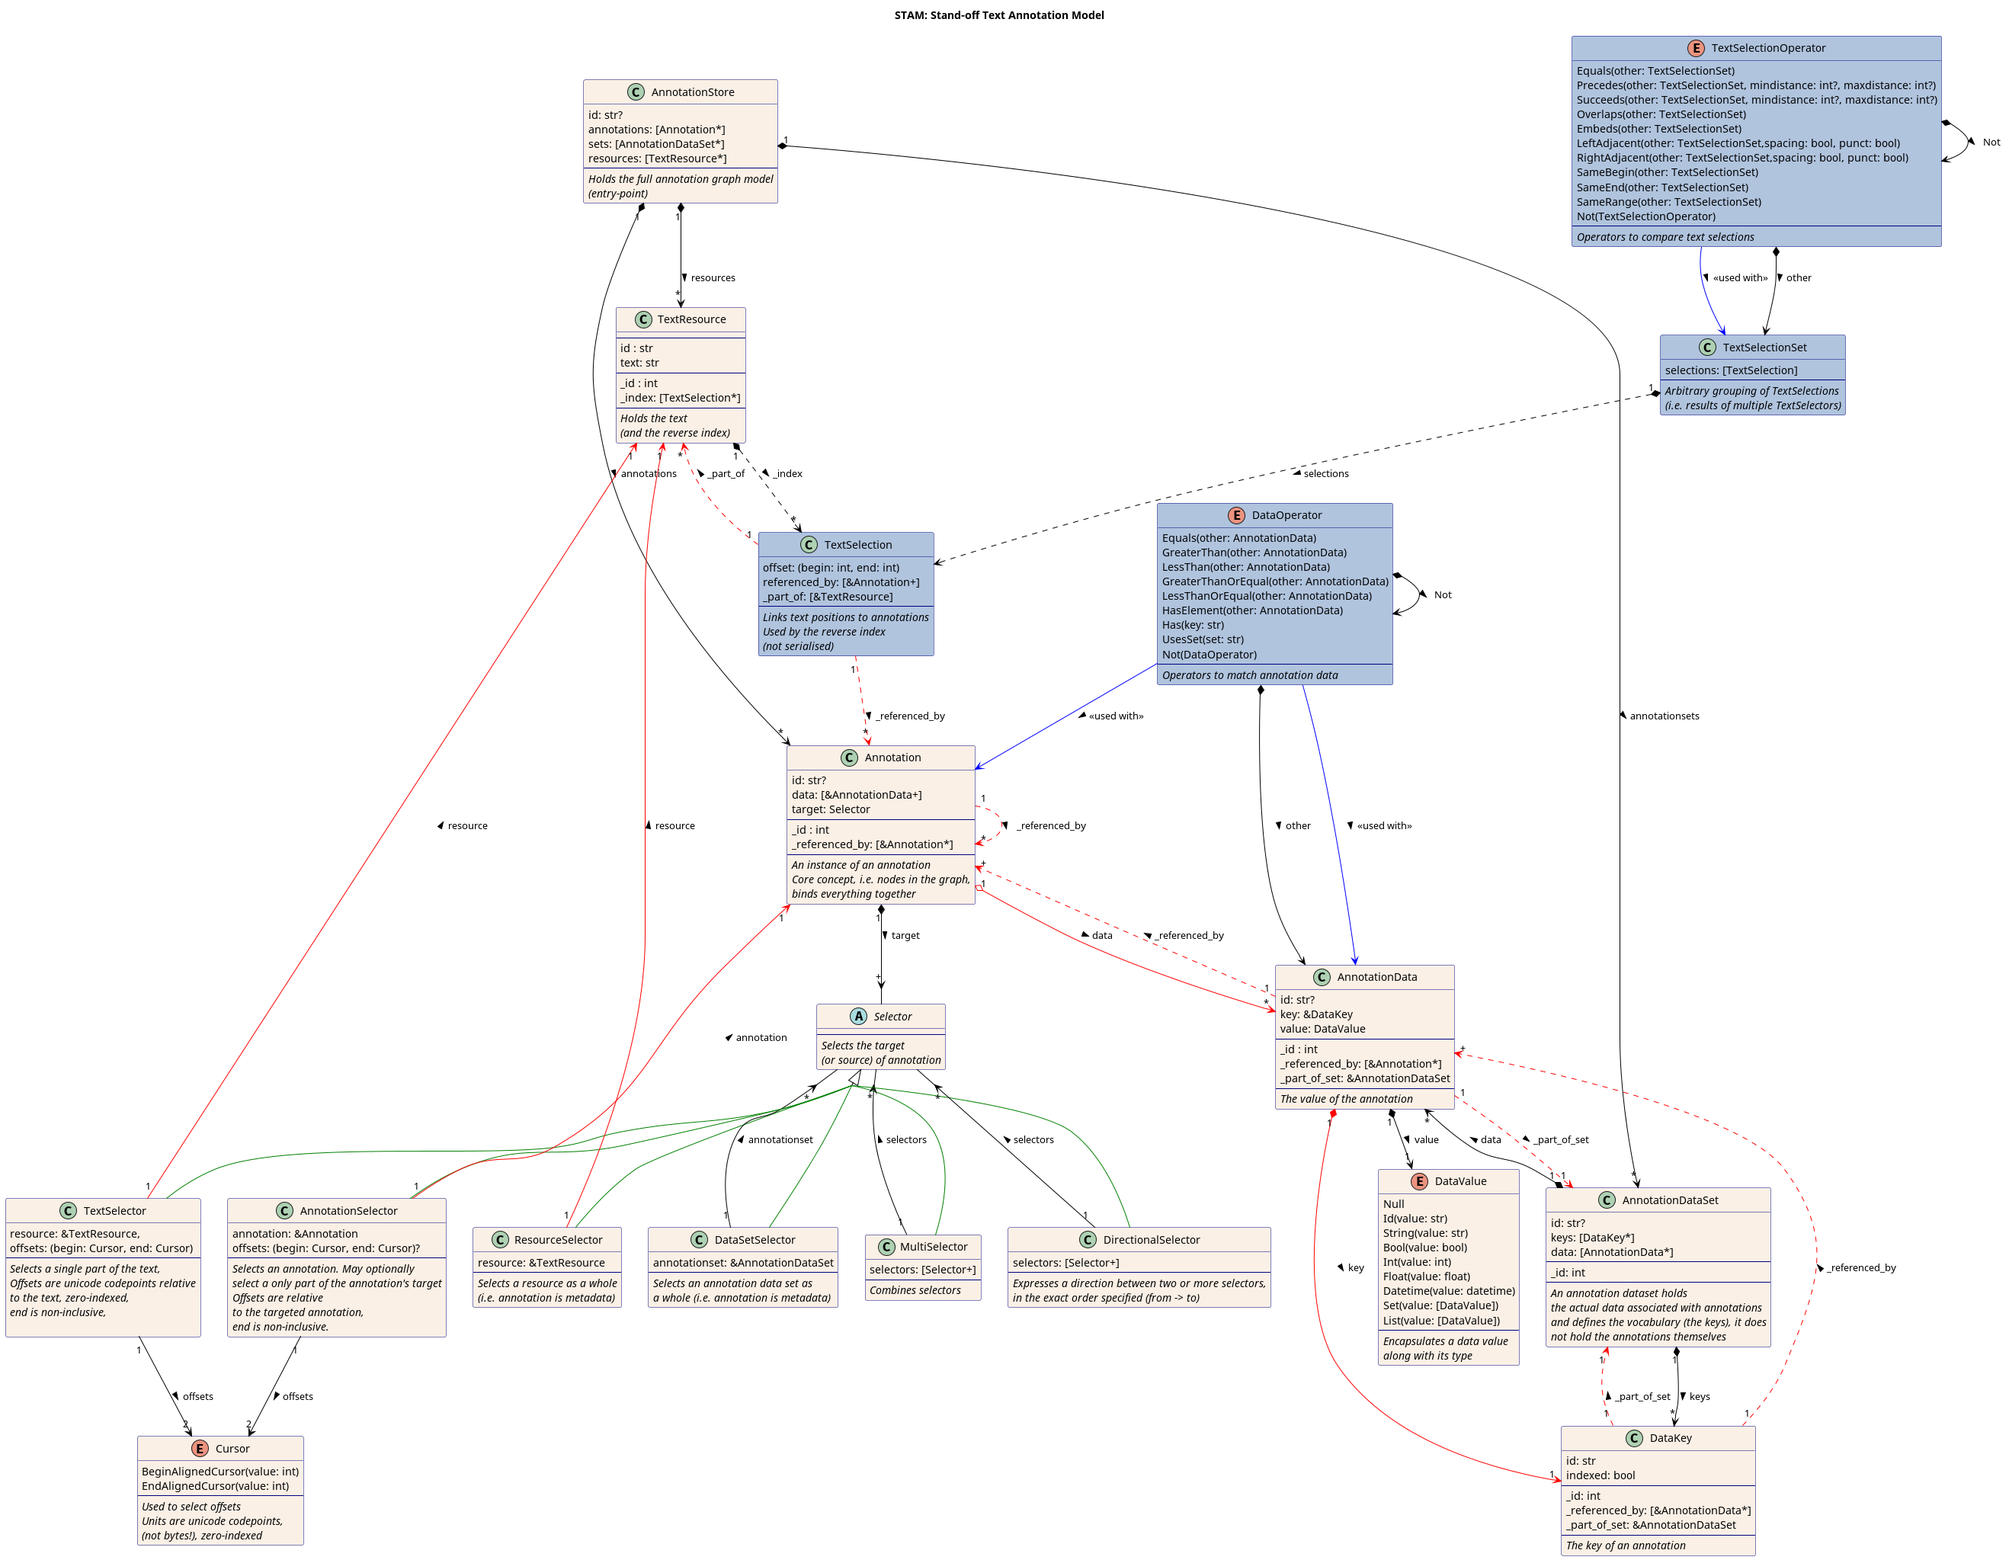
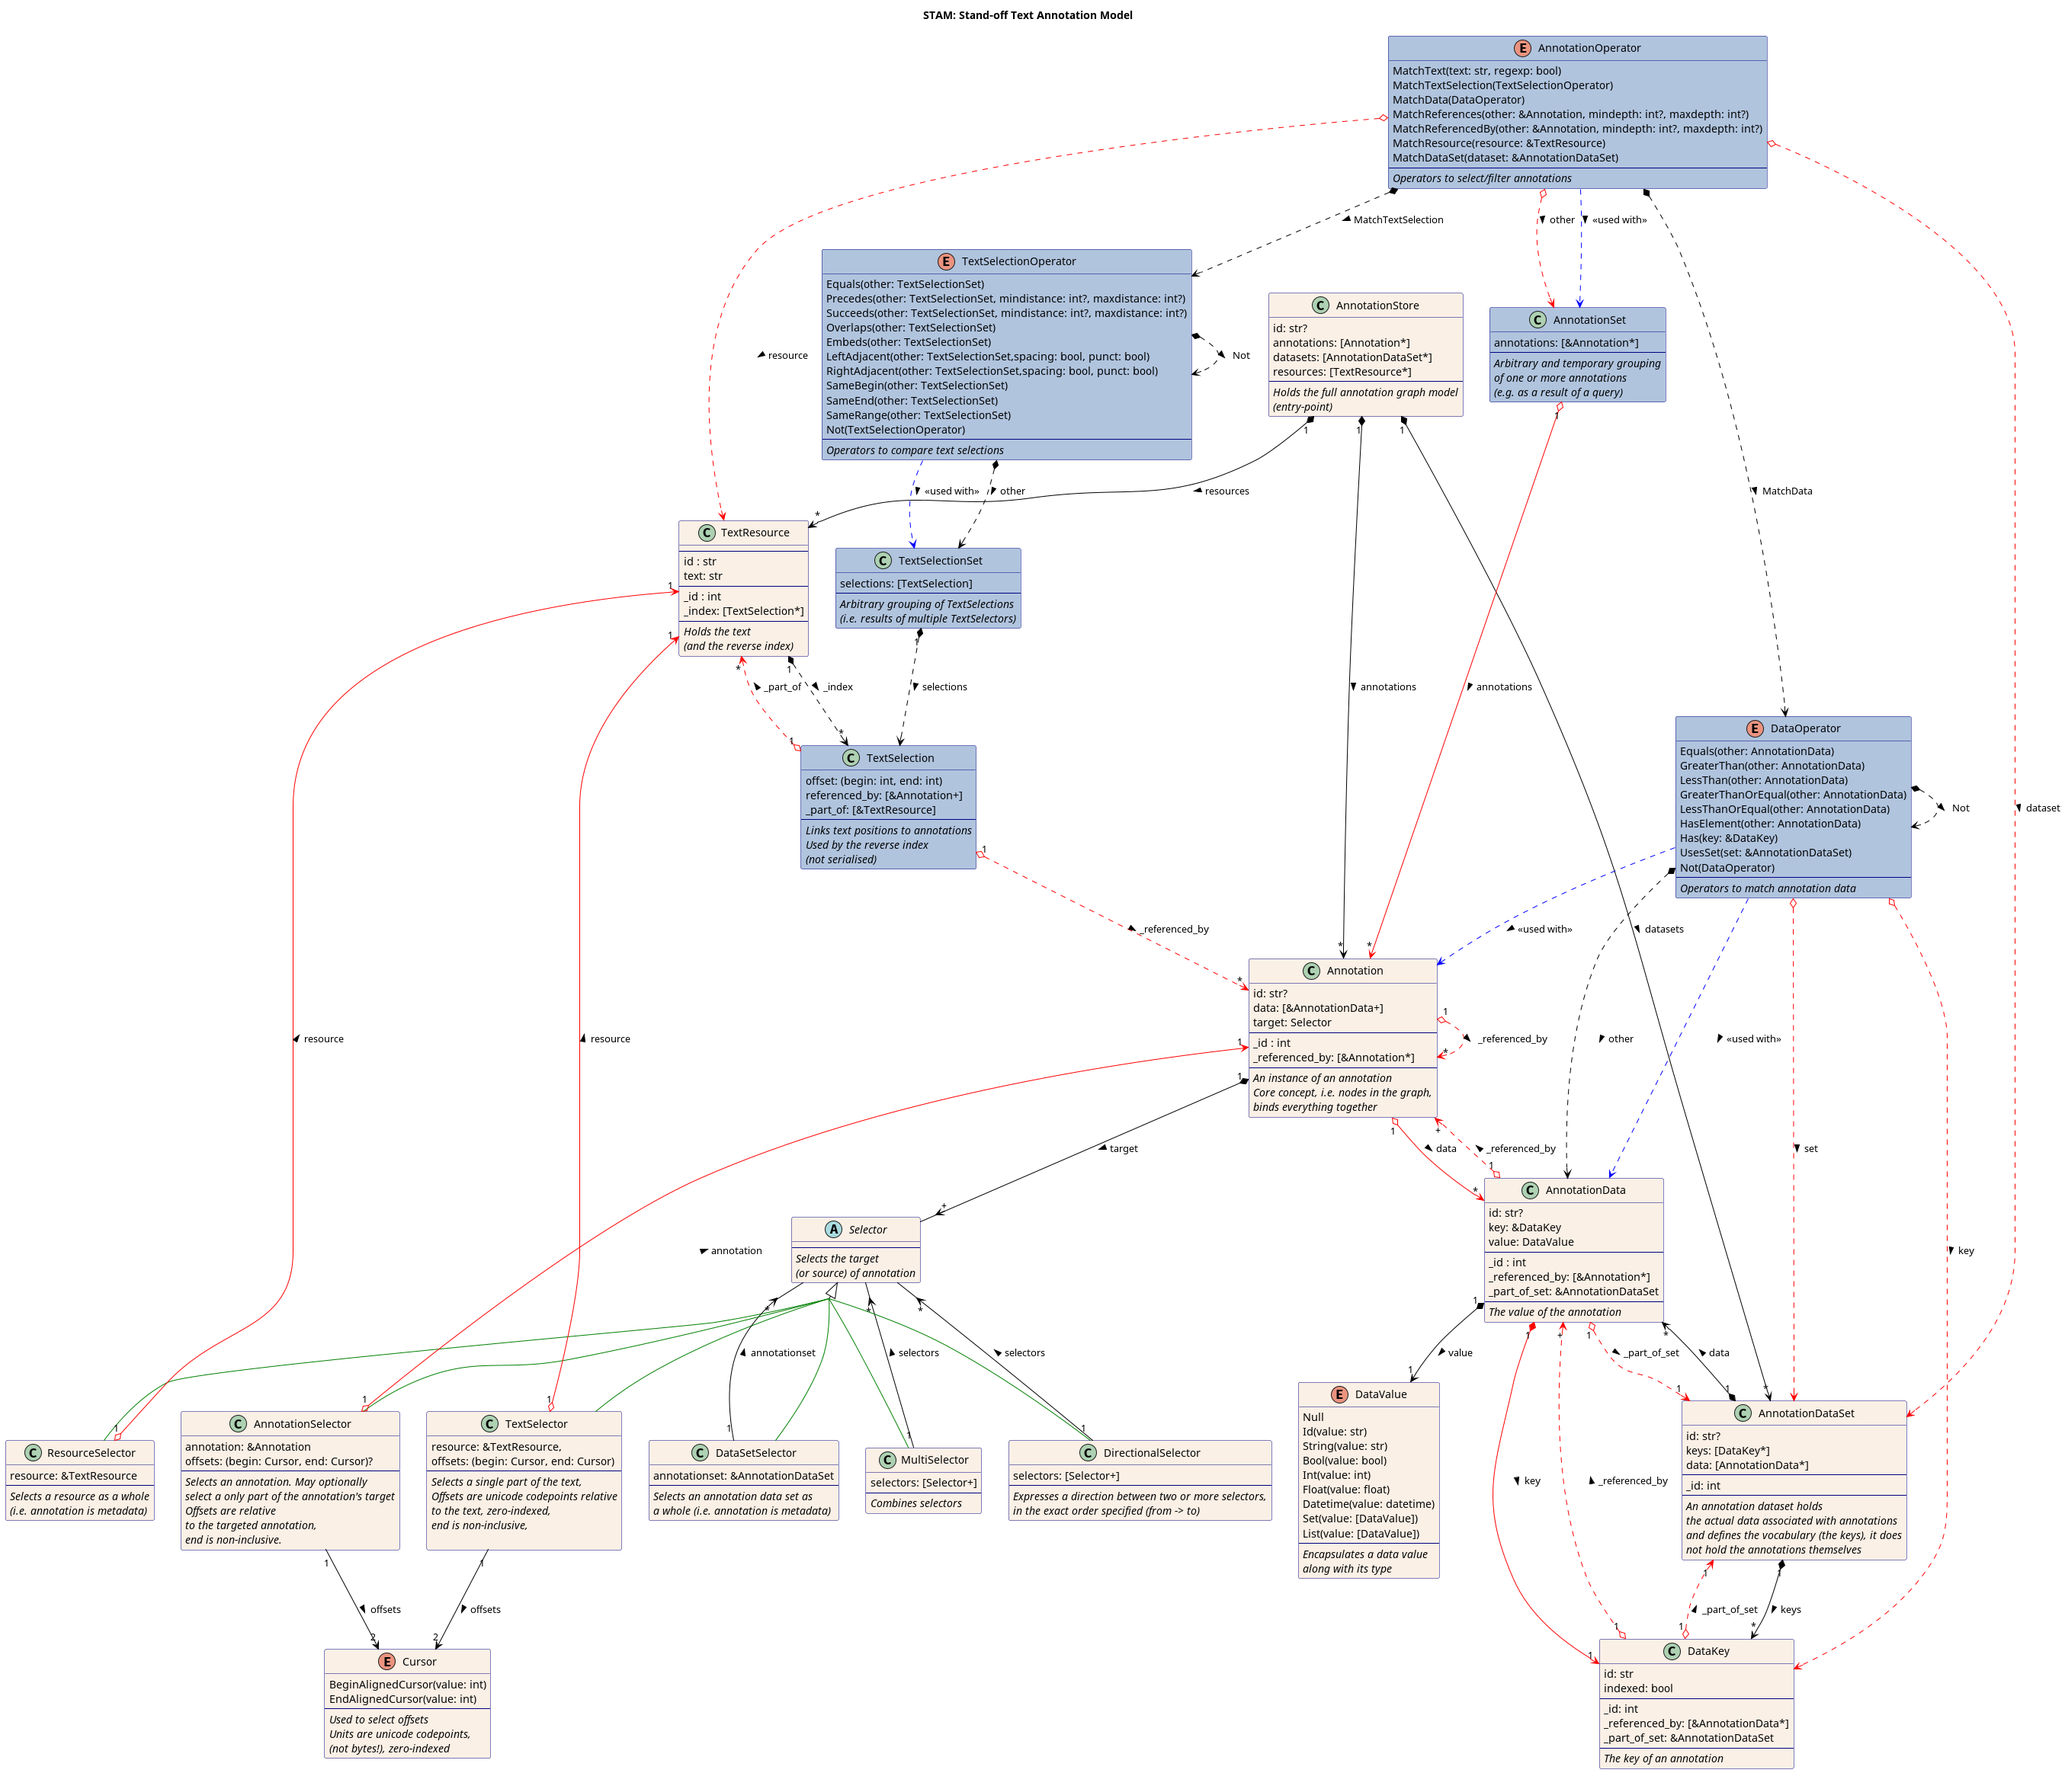
added AnnotationOperator to UML schema, fixed various relations, and updated clarifications

diff --git a/README.md b/README.md
@@ -114,23 +114,23 @@ The below UML diagram expresses the full data model.
 
 ![UML diagram](model.png)
 
-Some notes to interpret the diagram:
+Some notes to interpret the diagram, as it may quickly become overwhelming:
 
 *  A circled C stands for a Class (items listed are properties that must all be satisfied).
 *  A circled A stands for a Abstract class (items listed are properties that must all be satisfied).
 *  A circled E stands for an Enumeration (items listed are options in the enumeration)
-   *  Enumerations may be parametrised (this could be expanded to an abstract class and concrete classes).
-* Blue classes/enumerations are part of the extended model, and provide *RECOMMENDATIONS* for implementations in order to provide certain functionality.
-* Dashed edges follow private properties for the recommended memory-model
+   *  Enumerations may be parametrised (this could be written more verbosely as an abstract class (A) and concrete classes (C), and vice versa).
+* Blue classes/enumerations are *dependency relations* part of the extended model, and provide *RECOMMENDATIONS* for implementations in order to provide certain functionality. Please ignore it on a first reading.
+* Dashed edges follow private/*RECOMMENDED* properties for the recommended memory-model or come from classes in the extended model. Please ignore it on a first reading.
 * Green edges denote a subclass relationship (for the various Selectors)
-* Red edges point to references in the recommended memory model, black edges indicate ownership
-* Blue edges denote a functional relationship (used with). 
+* Red edges point to references in the recommended memory model, black edges indicate ownership. Please ignore it on a first reading.
+* Blue edges denote a functional relationship (used with).  Please ignore it on a first reading.
 * The ampersand prefix (``&``) represent a reference/pointer and is merely a *RECOMMENDED* hint for a memory model for implementations.
 * The ``?`` suffix represents optional properties. 
 *  ``[]`` represents a collection (a list/vector/array/set, specifics are left to the implementation)
     *  The ``*`` suffix inside a list represents zero or more items of the preceding type
     *  The ``+`` suffix inside a list represents one or more items of the preceding type
-* Properties starting with an underscore are *NOT REQUIRED* but *RECOMMENDED* for implementation to facilitate quick lookups, they suggest a memory model.
+* Properties starting with an underscore are *NOT REQUIRED* but *RECOMMENDED* for implementation to facilitate quick lookups, they suggest a memory model. Implementations could implement them as private properties.
 
 ### Identifiers
 
